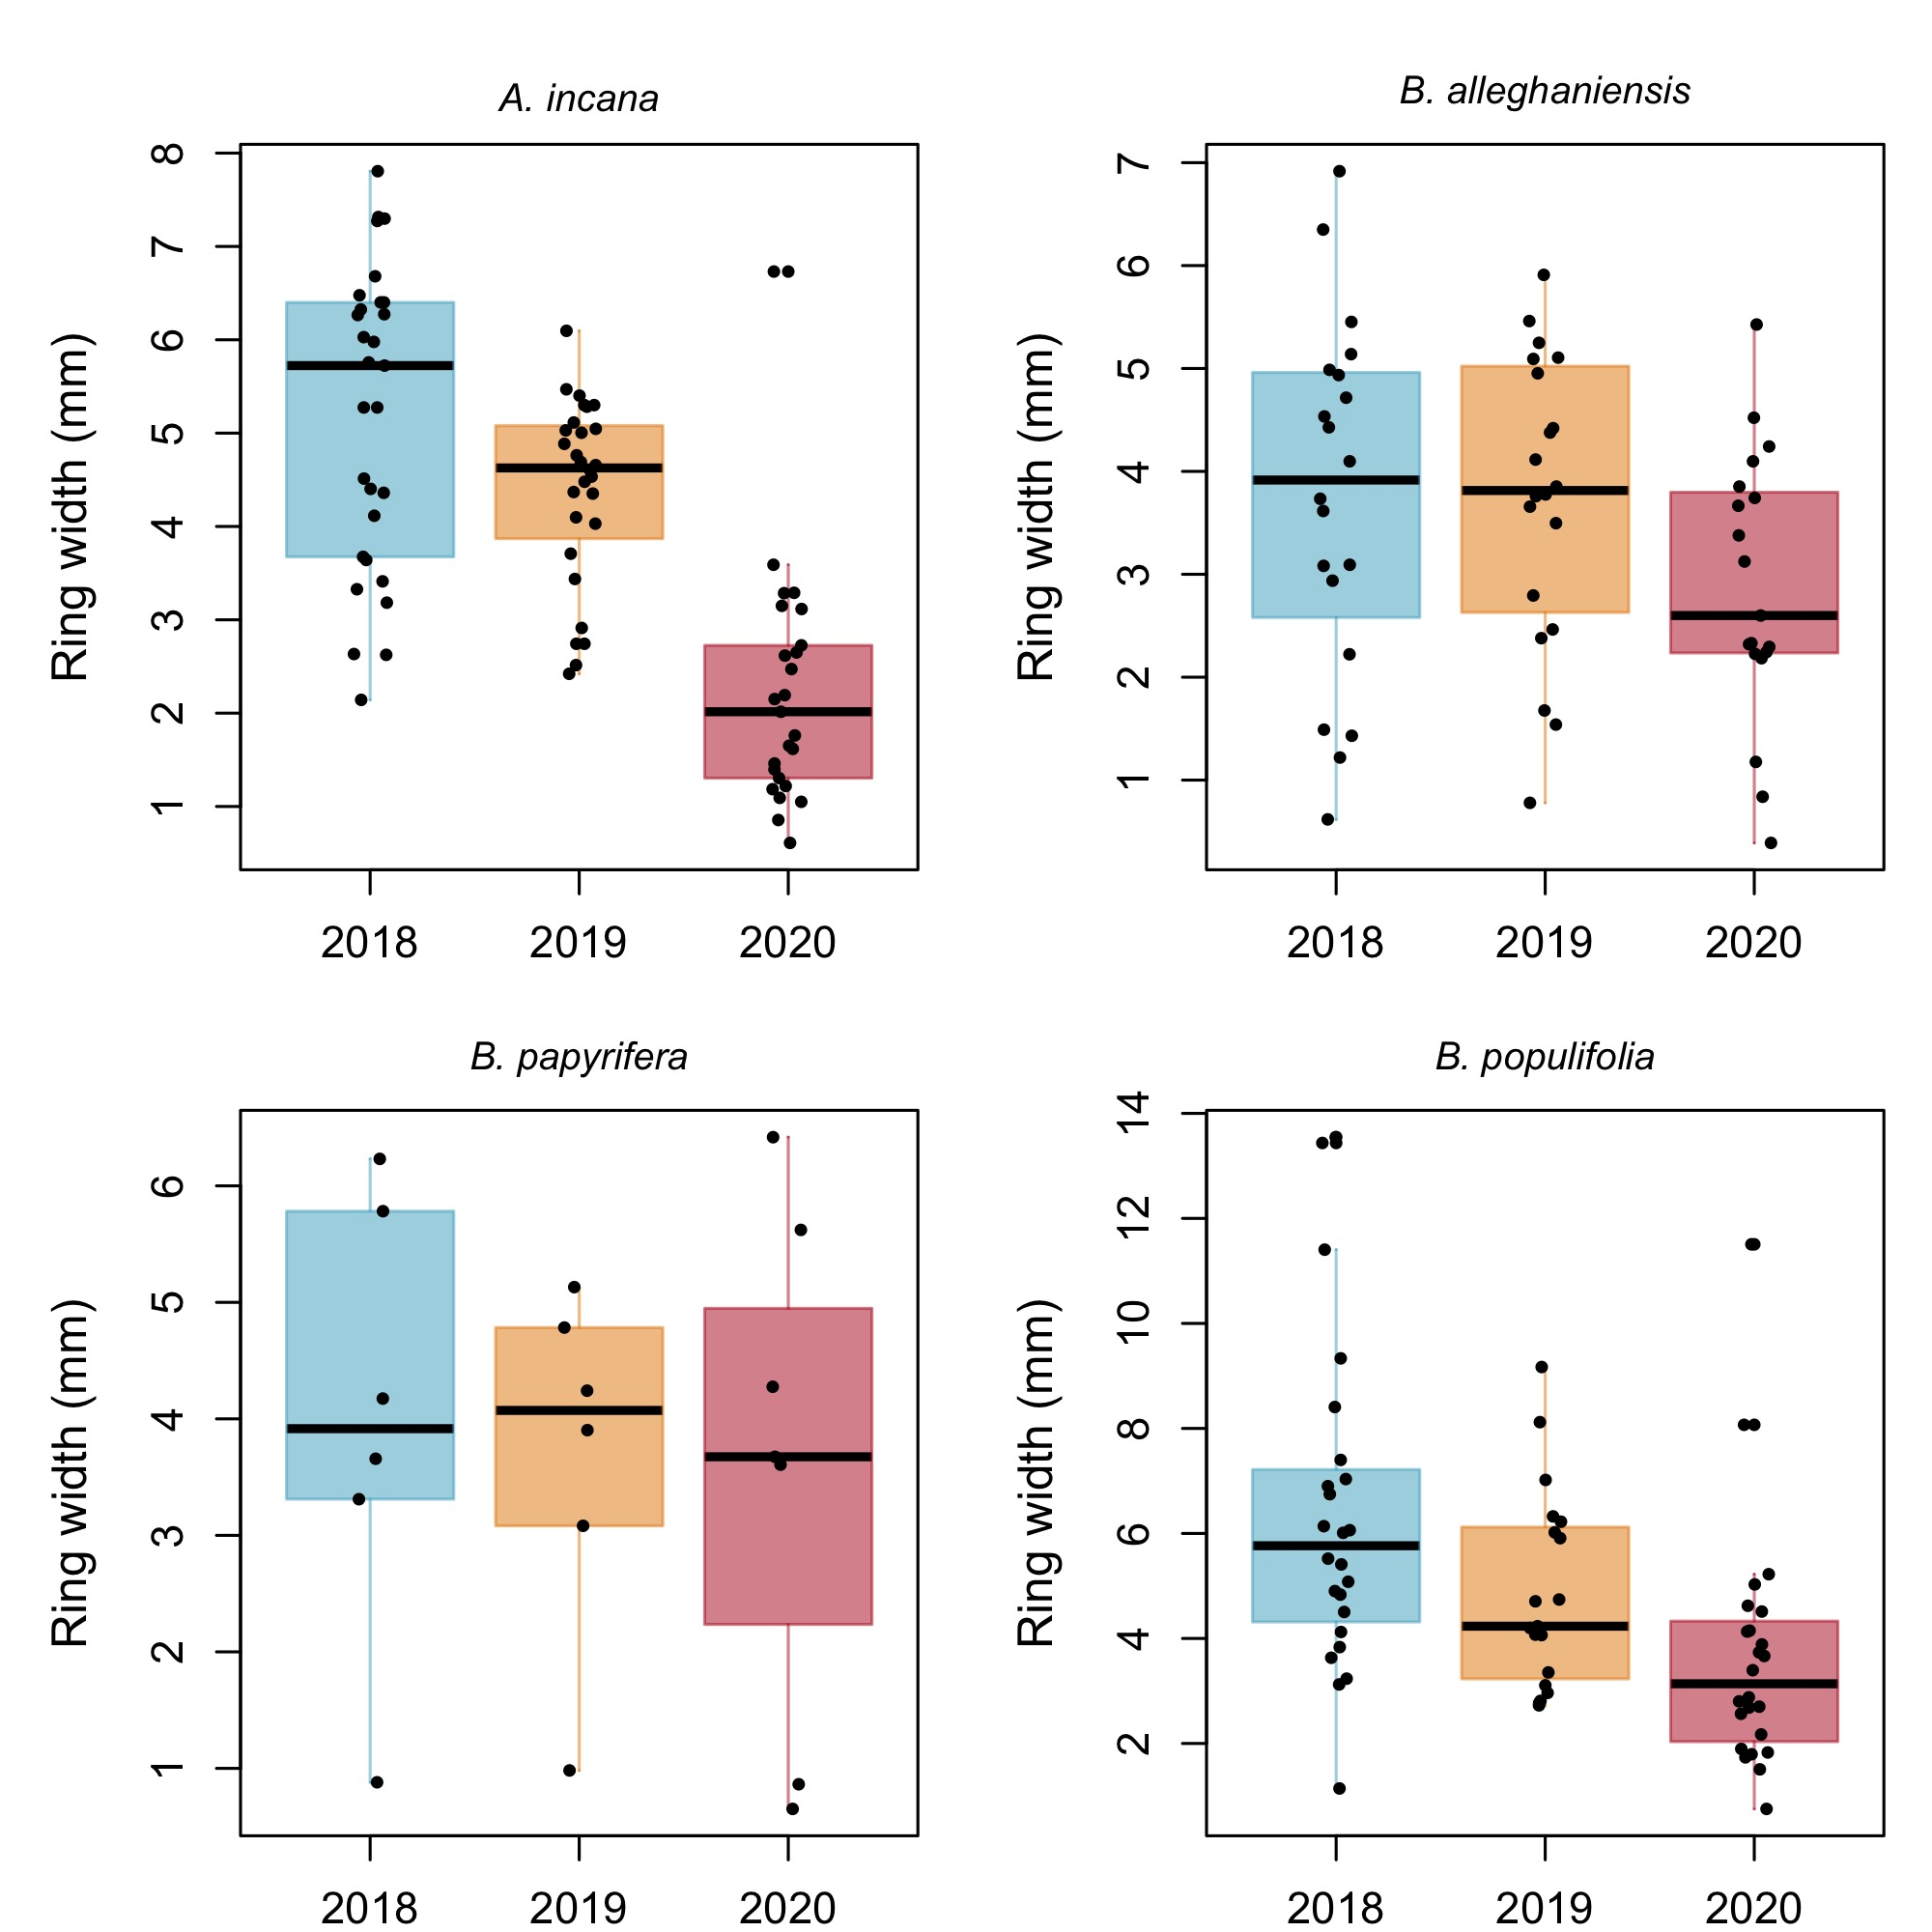
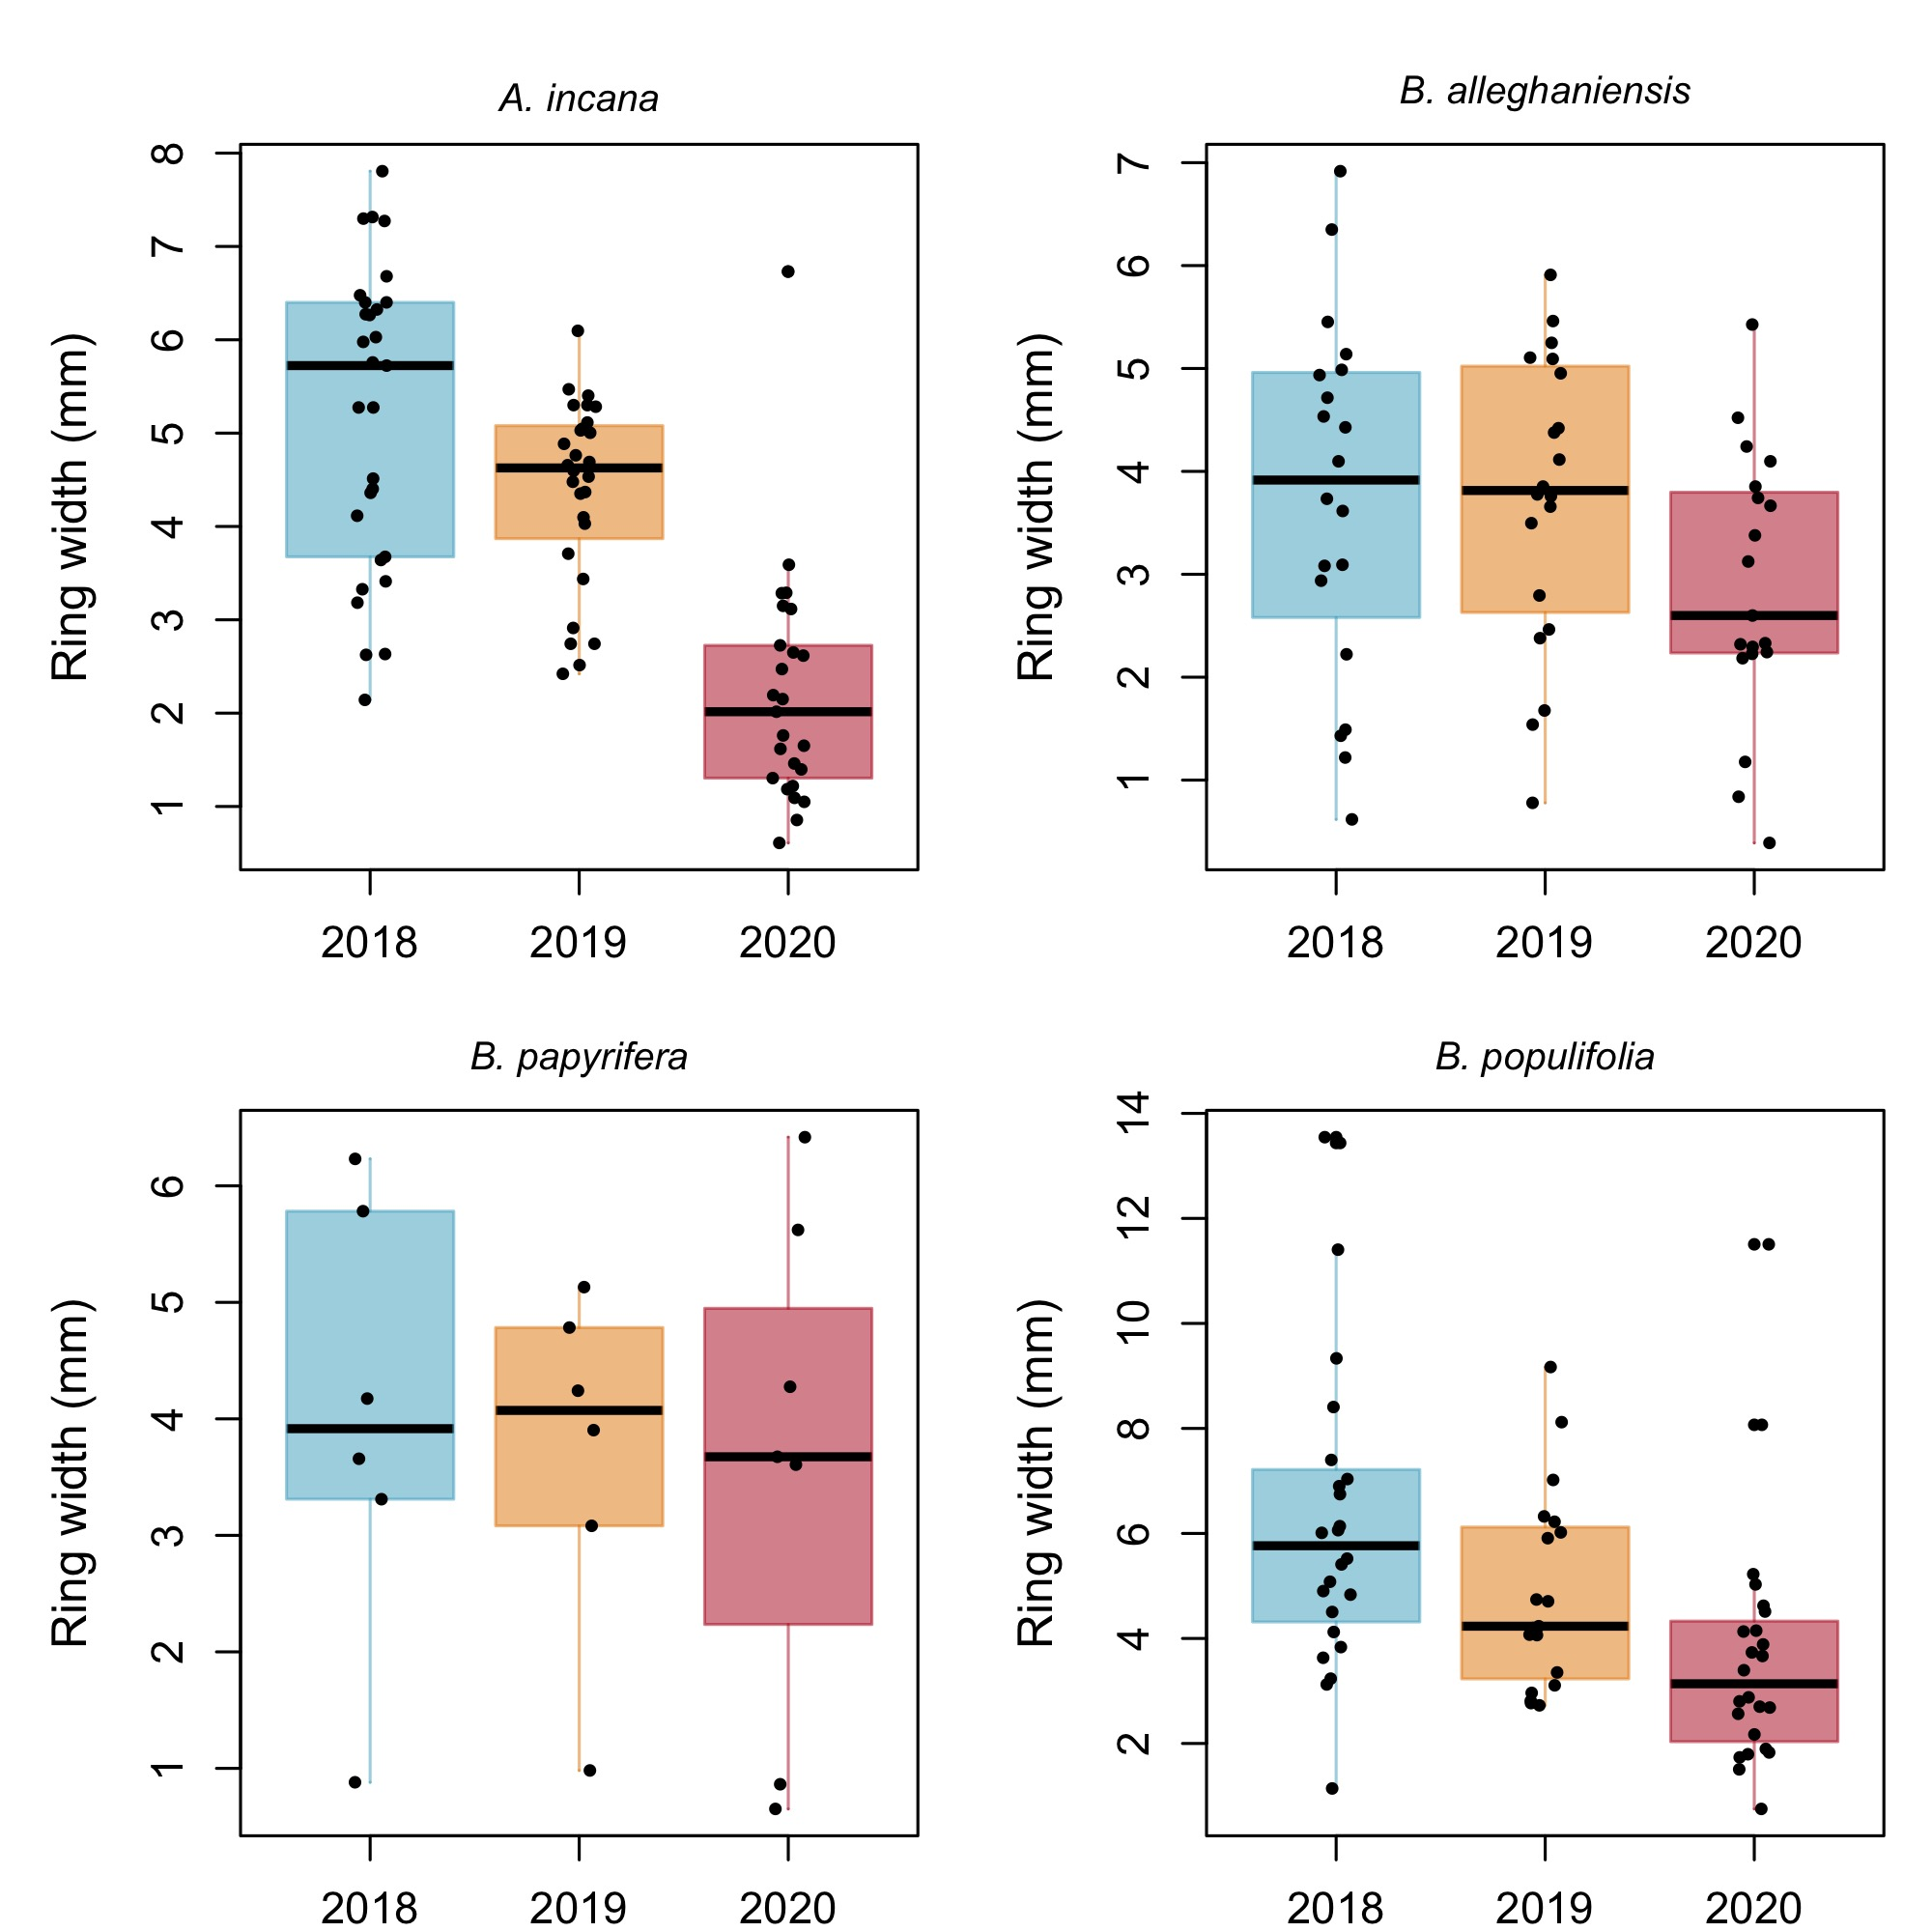
updates

diff --git a/docs/manuscript/msWildchrokie.tex b/docs/manuscript/msWildchrokie.tex
@@ -148,7 +148,7 @@ We then averaged across the three BAI for each ring and fit the models with the 
 
 % Table count per spp per prov 
 % latex table generated in R 4.5.1 by xtable 1.8-4 package
-% Fri Jun  5 10:10:35 2026
+% Fri Jun  5 12:22:07 2026
 \begin{table}[ht]
 \centering
 \caption{Provenance coordinates and count per species and provenances. We had a total of 81 individual trees} 
@@ -327,7 +327,7 @@ We did not find any clear effect of year on growth (Figure \ref{fig:wcmuplotayea
 
 
 % latex table generated in R 4.5.1 by xtable 1.8-4 package
-% Fri Jun  5 10:10:35 2026
+% Fri Jun  5 12:22:07 2026
 \begin{table}[ht]
 \centering
 \caption{Species level slope parameters (mean and 90\% uncertainty intervals, in square brackets) across the four different predictors for Wildchrokie. GDD: growing degree days, GSL: growing season length, SOS: start of season and EOS: end of season.} 
@@ -346,7 +346,7 @@ Species & GDD & GSL & SOS & EOS \\
 
 
 % latex table generated in R 4.5.1 by xtable 1.8-4 package
-% Fri Jun  5 10:10:35 2026
+% Fri Jun  5 12:22:07 2026
 \begin{table}[ht]
 \centering
 \caption{Site level intercept parameters (mean and 90\% uncertainty intervals, in square brackets) across the four different predictors for Wildchrokie. GDD: growing degree days, GSL: growing season length, SOS: start of season and EOS: end of season.} 
@@ -414,7 +414,7 @@ Harvard Forest (MA) & -0.10 [-0.33, 0.08] & -0.10 [-0.34, 0.08] & -0.05 [-0.26, 
 \end{figure}
 
 % latex table generated in R 4.5.1 by xtable 1.8-4 package
-% Fri Jun  5 10:10:35 2026
+% Fri Jun  5 12:22:07 2026
 \begin{table}[ht]
 \centering
 \caption{Posterior means and 90\% uncertainty intervals for all model parameters across predictors} 
@@ -447,7 +447,7 @@ $\sigma_{\alpha_{tree}}$ & 0.17 [0.05, 0.27] & 0.18 [0.05, 0.27] & 0.21 [0.11, 0
 
 
 % latex table generated in R 4.5.1 by xtable 1.8-4 package
-% Fri Jun  5 10:10:35 2026
+% Fri Jun  5 12:22:07 2026
 \begin{table}[ht]
 \centering
 \caption{Posterior means and 90\% uncertainty intervals for all model parameters, when using basal area increment (BAI) as the response variable} 